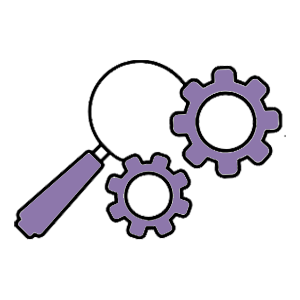
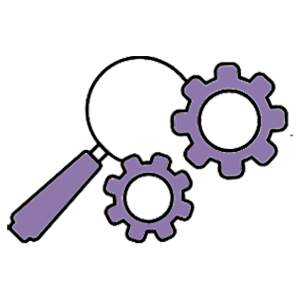
Ajout des icones canva

Changed region(s): [[0.0, 0.18, 0.99, 0.81]]

diff --git a/index.html b/index.html
@@ -61,13 +61,13 @@
                 <p>Je travaille avec vous dans le plus grand respect de votre espace et de vos attentes, en vous accompagnant sans jugement. Tous nos échanges et informations resteront confidentiels, assurant ainsi un cadre de confiance et de sécurité tout au long de mon accompagnement.</p>
         
                 <h3>Travailler avec moi c’est :</h3>
-                <ul>
-                    <li>Retrouver de l’énergie et du temps pour profiter de vos proches</li>
-                    <li>Apprendre de nouvelles méthodes afin de simplifier votre quotidien</li>
-                    <li>Avoir un réel soutien lors d’une évolution de vie (décès, divorce, départ en maison de retraite, déménagement, maladie, naissance...etc.)</li>
-                    <li>Travailler avec plus d’efficacité et rendre plus facile votre démarche de renouveau.</li>
-                    <li>Être accompagné par une personne rigoureuse et à l’écoute</li>
-                </ul>
+                <ul class="custom-list-2">
+                    <li><img src="static/ico1.png" alt="Icon 1"> Retrouver de l’énergie et du temps pour profiter de vos proches</li>
+                    <li><img src="static/ico2.png" alt="Icon 2"> Apprendre de nouvelles méthodes afin de simplifier votre quotidien</li>
+                    <li><img src="static/ico3.png" alt="Icon 3"> Avoir un réel soutien lors d’une évolution de vie (décès, divorce, départ en maison de retraite, déménagement, maladie, naissance...etc.)</li>
+                    <li><img src="static/ico4.png" alt="Icon 4"> Travailler avec plus d’efficacité et rendre plus facile votre démarche de renouveau.</li>
+                    <li><img src="static/ico5.png" alt="Icon 5"> Être accompagné par une personne rigoureuse et à l’écoute</li>
+                </ul>                
             </div>
         </section>
 

diff --git a/style.css b/style.css
@@ -571,6 +571,25 @@ nav { /* Ou tout autre conteneur parent */
     }
 }
 
+.custom-list-2 {
+    list-style: none; /* Remove default bullets */
+    padding: 0; /* Remove padding */
+    margin-left: 10px;
+    margin-right: 10px;
+}
+
+.custom-list-2 li {
+    display: flex; /* Align image and text horizontally */
+    align-items: center; /* Center the items vertically */
+    margin-bottom: 10px; /* Space between items */
+}
+
+.custom-list-2 li img {
+    width: 40px; /* Adjust icon size */
+    height: 40px; /* Adjust icon size */
+    margin-right: 10px; /* Space between the image and text */
+}
+
 
 /* --------------------  Qui suis-je ?  ------------------ */
 
